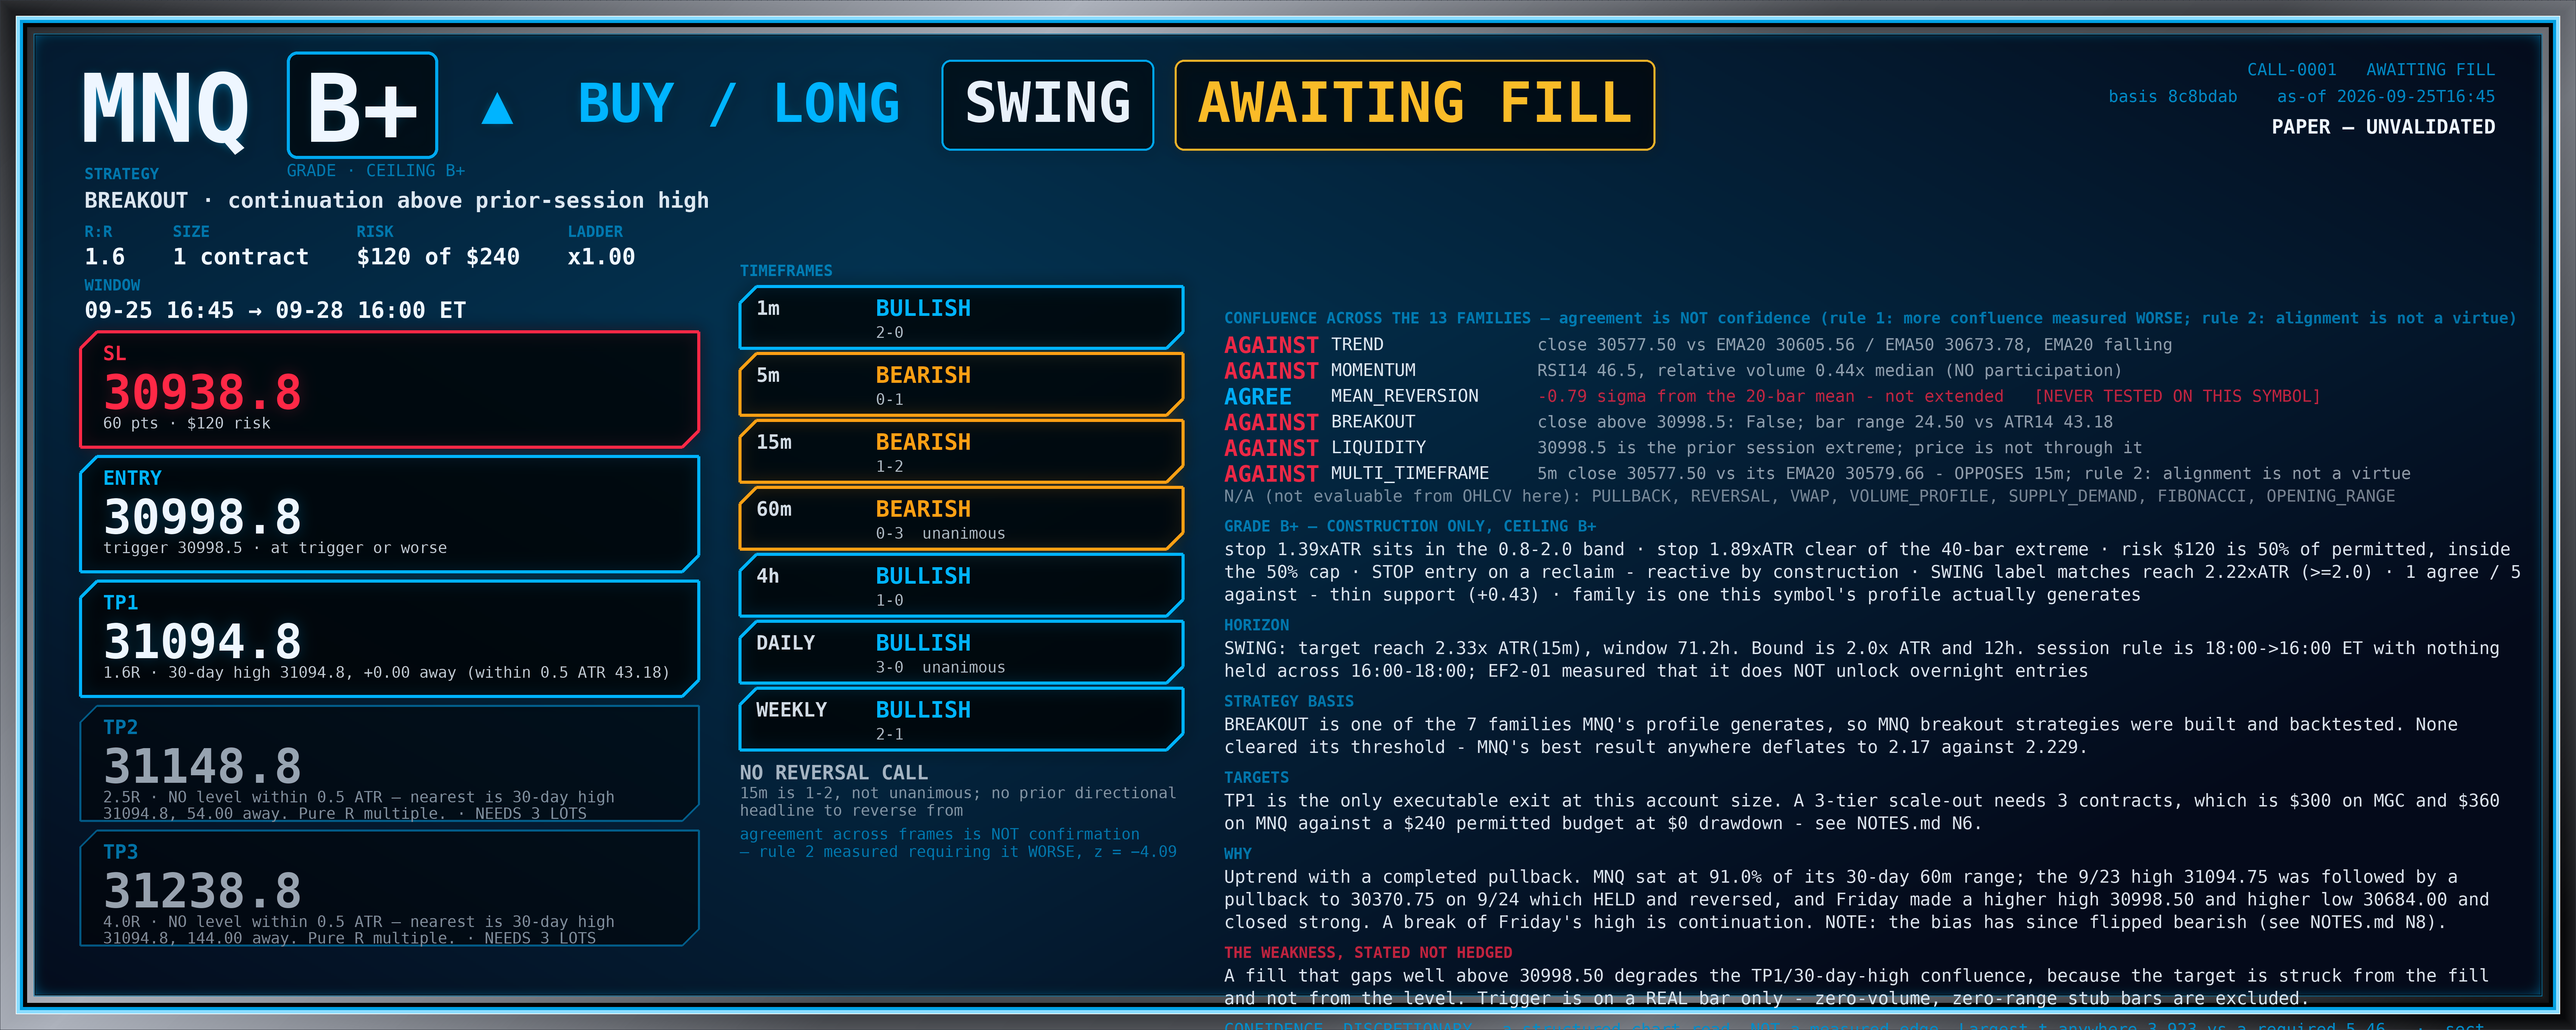
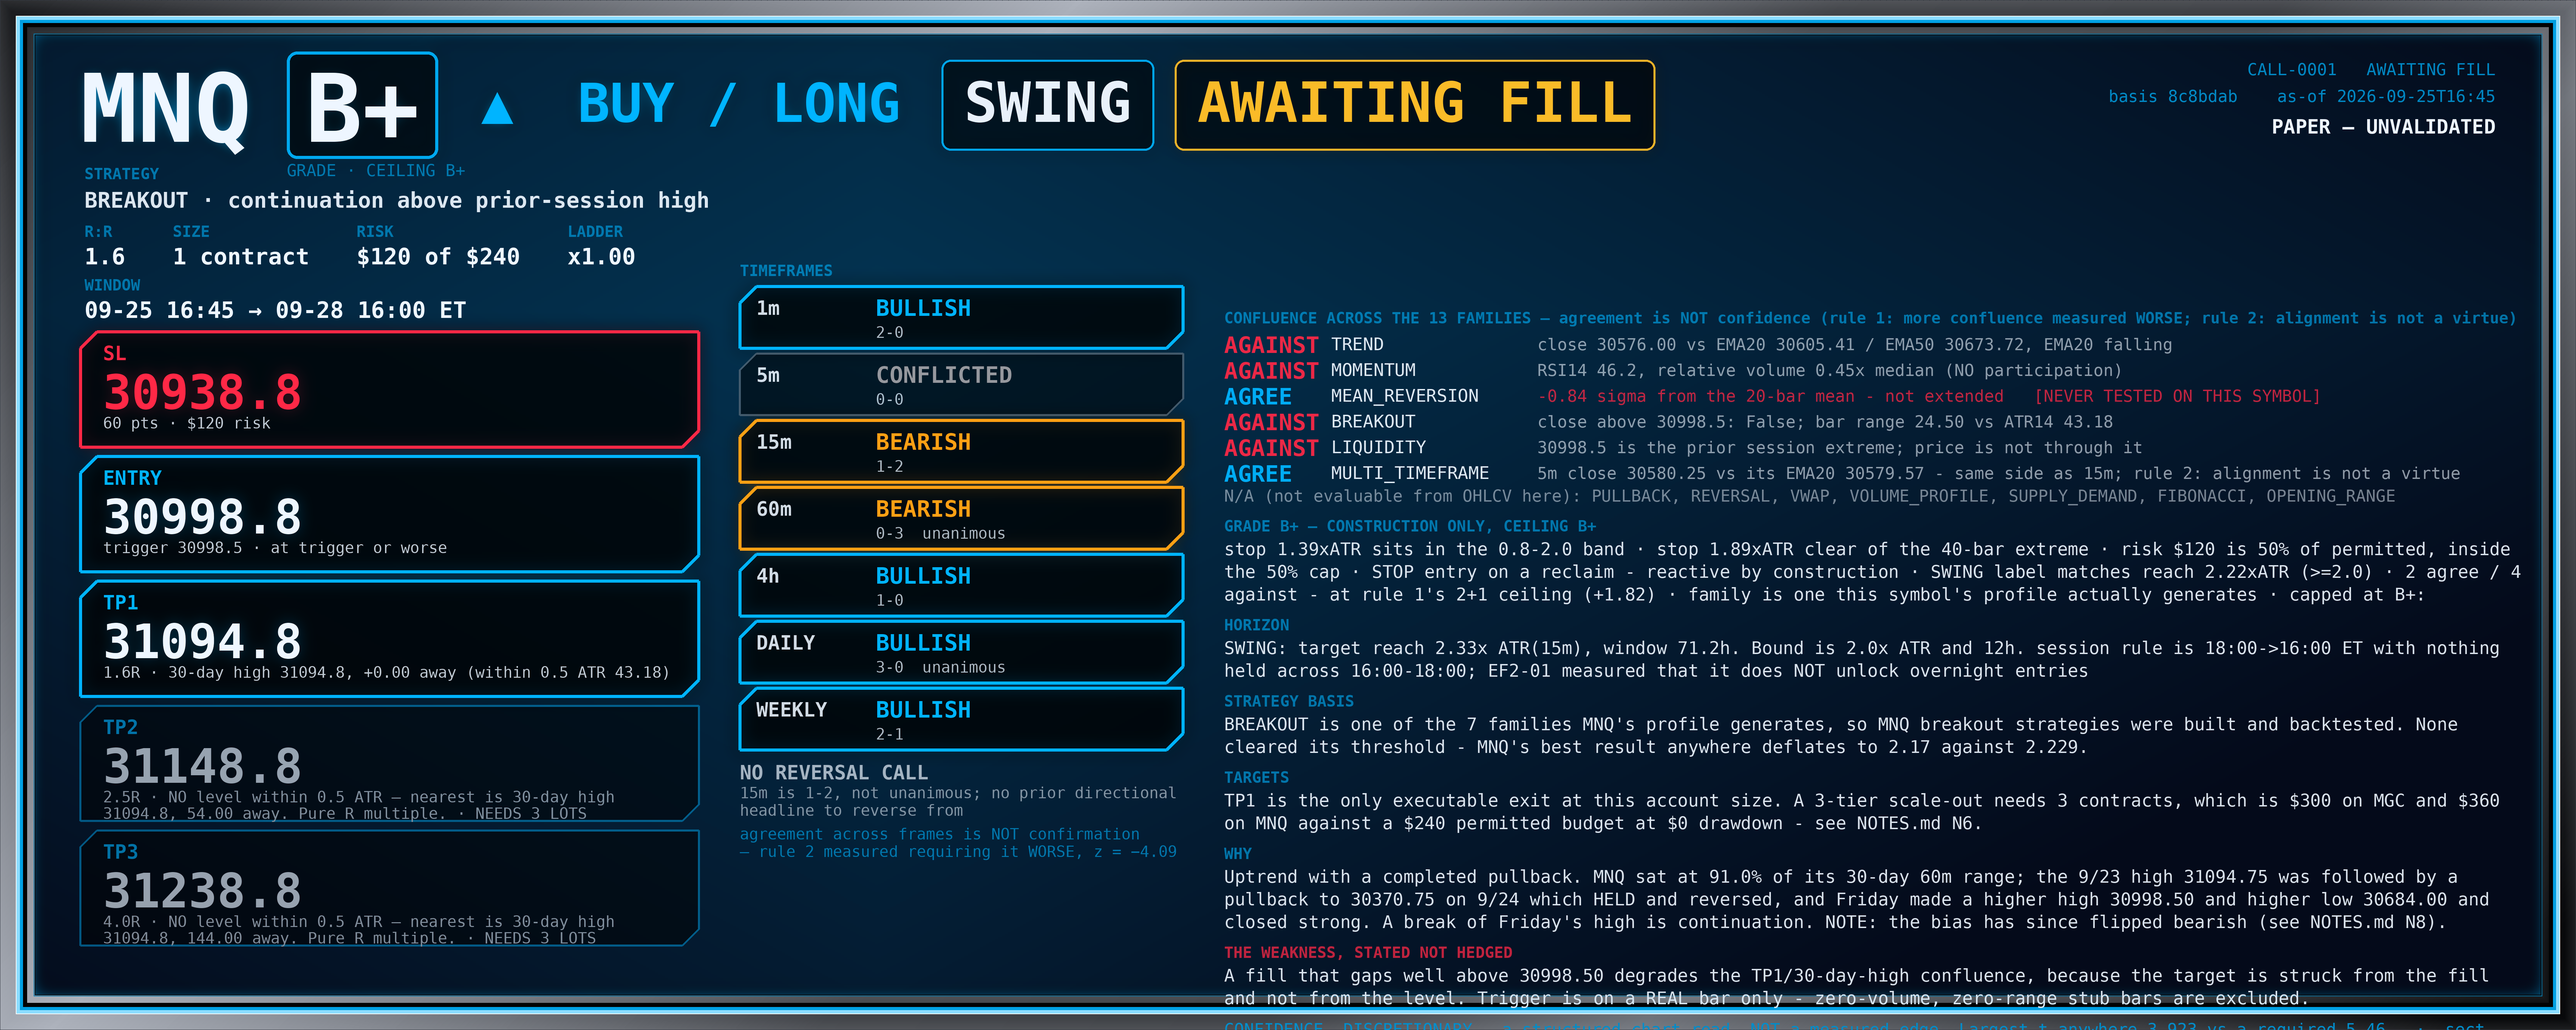
CALL desk: 06:57 fast check - nothing settled three minutes after the full check
Newest settled 15m still 06:15 on both; 06:30 settles at 06:58, one minute after this
check, so the eighth settled pair belongs to the next one. Newest real 5m bar 06:45 on
both, lag 12.5m.

Unsettled: MGC 4187.40 (06:30 bar h 4192.00 c 4188.40), MNQ 30580.25 (h 30585.75 c
30576.00). MGC 15.7% of [4172.60, 4273.50], MNQ 12.7% of [30535.00, 30857.00], both
effectively unchanged from 06:54. MGC 1m BEAR 0-2 from CONFLICTED, MNQ 5m CONFLICTED
from BEAR - the usual fast-frame churn. Both structures BULL, both reversal tests false,
both 60m unanimous bearish as all session.

No call, no new information. 2 PENDING, open 0, closed 0, equity $50,000.00, drawdown
$0.00. Note kept to three lines on purpose - padding a check that has nothing in it is
the failure N85 and N98 were about.

Claude-Session: https://claude.ai/code/session_01EE6PFk7fGa2tM4KP6dpfWD

diff --git a/workspace/paper/CALL/NOTES.md b/workspace/paper/CALL/NOTES.md
@@ -4426,3 +4426,20 @@ against a 19.04 target distance. Two plans PENDING: CALL-0001 (MNQ LONG, 354.25 
 two-higher-timeframe condition at all tonight, since its daily and weekly are NOT ELIGIBLE and its 4h is
 bearish. MGC RTH opens **08:20 ET**, 1h26m out: CALL-0002's window, and the first moment tonight anything
 enters a session this repository has measured. MNQ RTH 09:30.
+
+## N114 — 06:57: three minutes after the full check, nothing settled, nothing to add
+
+Newest settled 15m is still `06:15` on both symbols; `06:30` settles at **06:58**, one minute after this
+check, so the eighth settled pair belongs to the next one. Newest real 5m `06:45` on both, lag 12.5m.
+
+Unsettled prices: MGC 4187.40 (`06:30` 15m bar h 4192.00 c 4188.40), MNQ 30580.25 (h 30585.75 c 30576.00).
+Locations MGC 15.7% of [4172.60, 4273.50], MNQ 12.7% of [30535.00, 30857.00] — both effectively unchanged
+from 06:54.
+
+Frames: MGC 1m BEAR 0-2 (from CONFLICTED), 5m BULL 2-0, 15m BEAR 1-2, 60m BEAR 0-3 unanimous. MNQ 1m BULL
+2-0, 5m CONFLICTED 0-0, 15m BEAR 1-2, 60m BEAR 0-3 unanimous. Both structures BULL, both reversal tests
+false, both 60m frames unanimous bearish as they have been for the whole session.
+
+No call, no new information. Two plans PENDING, ledger unchanged at equity $50,000.00 and drawdown $0.00.
+Kept to three lines on purpose — a check three minutes after a full check has nothing in it, and writing it
+up at length would be the padding failure N85 and N98 were about.
